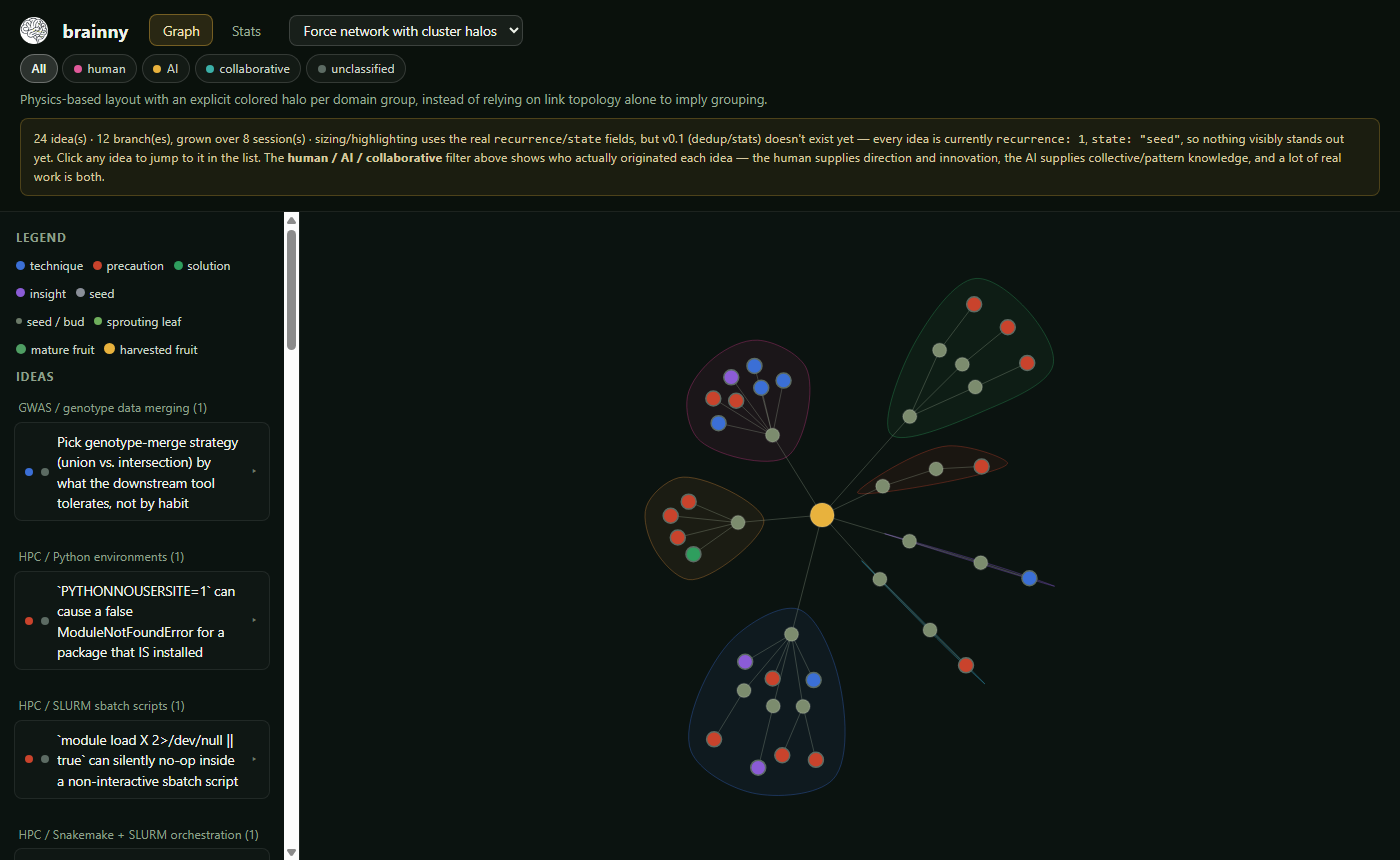
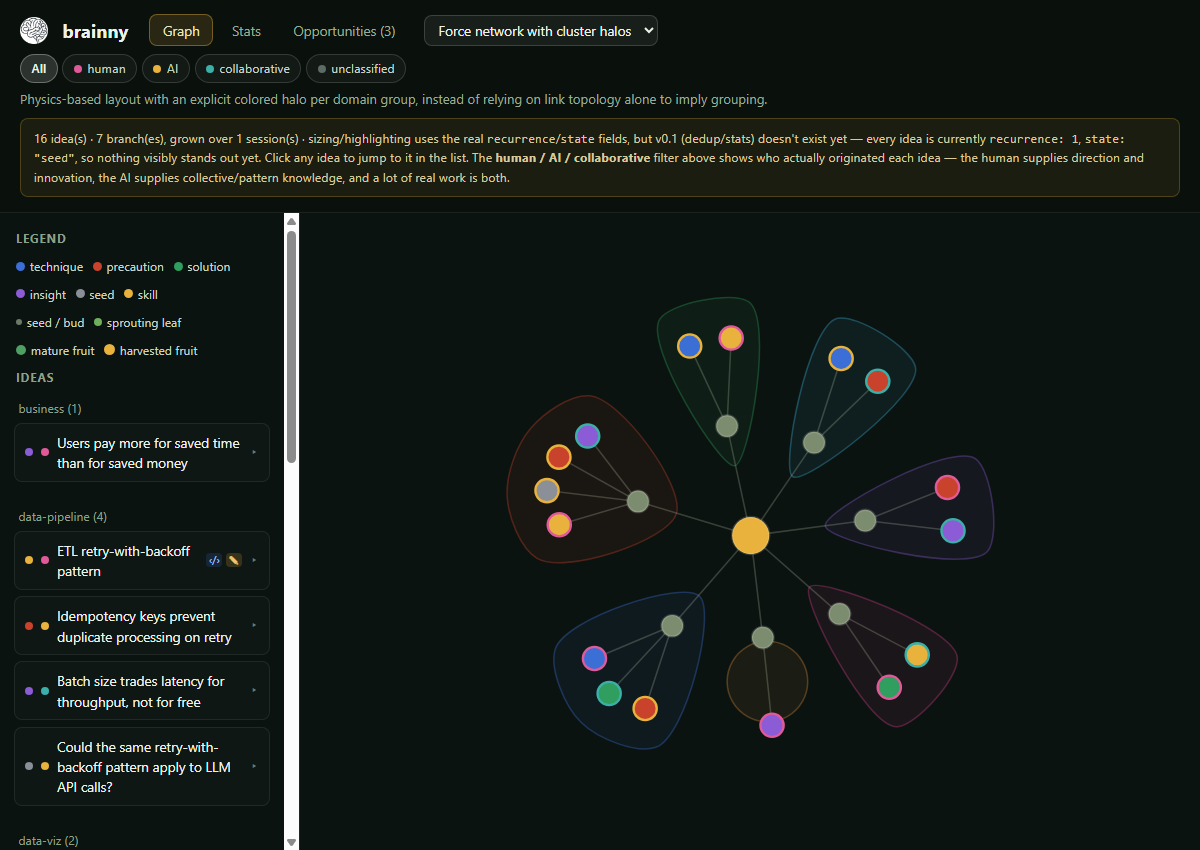
Update README screenshots -- the old ones predated the Opportunities tab
The dashboard/stats screenshots hadn't been touched since the origin-
filter commit, well before the Opportunities tab, badges, and everything
else built since -- they no longer matched what the dashboard actually
looks like. Replaced both with fresh screenshots from examples/demo's
fabricated dataset (the force-network view for the hero shot, since it's
more visually compelling than the radial tree), and added a third for
the Opportunities tab, which had no screenshot at all before this.

Claude-Session: https://claude.ai/code/session_01KcJMDmAQVvznzGbJzvJt6h

diff --git a/README.md b/README.md
@@ -118,14 +118,21 @@ can drive brainny the same way.
   <img src="assets/screenshot-stats.png" alt="brAInny dashboard Stats tab: domain treemap, per-cluster activity table, kind breakdown, origin breakdown, and newest ideas" width="100%">
 </p>
 
-<p align="center"><sub>Stats tab — domain treemap, growth trends, kind + origin breakdown. Both from <code>brainny query --html</code>, on this project's own real, dogfooded ideas.</sub></p>
+<p align="center"><sub>Stats tab — domain treemap, growth trends, kind + origin breakdown.</sub></p>
 
-**Want to click around it yourself, not just look at screenshots?**
+<p align="center">
+  <img src="assets/screenshot-opportunities.png" alt="brAInny dashboard Opportunities tab: three AI-proposed combinations of ideas, each with a kind badge, a confidence-weight bar, a summary and rationale, and links back to the ideas they're built from" width="100%">
+</p>
+
+<p align="center"><sub>Opportunities tab — AI-proposed combinations, sorted by confidence weight, linked back to the ideas each one draws from.</sub></p>
+
+All three screenshots are from the same fabricated example dataset (16
+ideas across 7 domains, every kind/origin, attachments, snippets, and 3
+proposed Opportunities) — built to show the full dashboard, not the
+maintainer's real ideas. **Want to click around it yourself, not just
+look at screenshots?**
 [Open the live example dashboard](https://htmlpreview.github.io/?https://raw.githubusercontent.com/AlsammanAlsamman/brainny/master/examples/demo/graph.html) —
-entirely fabricated data (16 ideas across 7 domains, every kind/origin,
-attachments, snippets, and 3 proposed Opportunities), built specifically
-to show the full dashboard, not the maintainer's real ideas. See
-[`examples/demo/`](examples/demo/).
+see [`examples/demo/`](examples/demo/).
 
 ---
 
